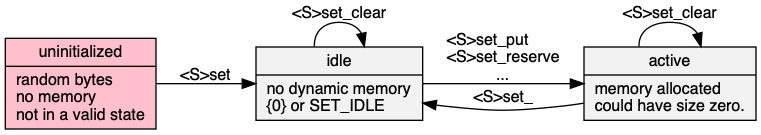
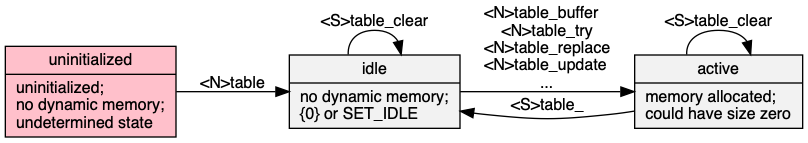
Updated figures.

Changed region(s): [[0.0, 0.0296, 0.9974, 0.9778], [0.0, 0.563, 0.1511, 0.6519]]

diff --git a/readme.html b/readme.html
@@ -203,7 +203,7 @@ fixme</div>
 
 <p><code>enum <strong>table_result</strong> { TABLE_RESULT };</code></p>
 
-<p>This is the result of modifying the table. An <code>enum</code> of <code>TABLE_*</code>, of which <code>TABLE_ERROR</code> is false. <img alt = "A diagram of the result states." src = "web/put.png" width = 657 height = 305></p>
+<p>This is the result of modifying the table, of which <code>TABLE_ERROR</code> is false. <img alt = "A diagram of the result states." src = "web/put.png" width = 657 height = 305></p>
 
 </div>
 
@@ -225,7 +225,7 @@ fixme</div>
 
 <p>To initialize, see <a href = "#fn:&lt;N&gt;table">&lt;N&gt;table</a>, <code>TABLE_IDLE</code>, <code>{0}</code> (<code>C99</code>,) or being <code>static</code>. The fields should be treated as read-only; any modification is liable to cause the table to go into an invalid state.</p>
 
-<p><img alt = "States." src = "web/states.png" width = 761 height = 135></p>
+<p><img alt = "States." src = "web/states.png" width = 808 height = 143></p>
 
 </div>
 

diff --git a/readme.md b/readme.md
@@ -139,7 +139,7 @@ Responsible for turning the argument [&lt;PSZ&gt;key](#user-content-typedef-bd74
 
 <code>enum <strong>table_result</strong> { TABLE_RESULT };</code>
 
-This is the result of modifying the table\. An `enum` of `TABLE_*`, of which `TABLE_ERROR` is false\. ![A diagram of the result states.](web/put.png)
+This is the result of modifying the table, of which `TABLE_ERROR` is false\. ![A diagram of the result states.](web/put.png)
 
 
 
